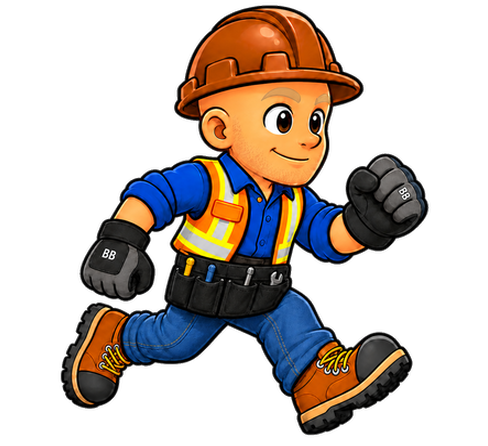
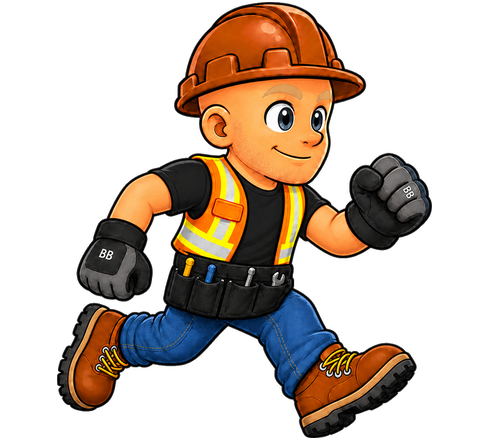
art: refine Mr BB colors and boots

Changed region(s): [[0.0922, 0.0, 0.8914, 0.991], [0.7992, 0.5247, 0.8299, 0.5538]]

diff --git a/tests/release-contract.test.js b/tests/release-contract.test.js
@@ -120,16 +120,18 @@ test('the published build retains the LittleJS MIT notice', async () => {
   assert.match(publicLicense, /Permission is hereby granted/);
 });
 
-test('the larger cartoon Mr. BB asset keeps the approved front-apron outfit and real transparency', async () => {
+test('the larger cartoon Mr. BB asset keeps the approved gray-blue-eyed black-T-shirt outfit', async () => {
   const [markup, gameSource, hero] = await Promise.all([
     readProjectFile('index.html'),
     readProjectFile('src/game.js'),
     readProjectAsset('assets/mr-bb-v2.png'),
   ]);
 
-  assert.match(markup, /assets\/mr-bb-v2\.png/);
-  assert.match(markup, /Bald cartoon Mr\. BB with light eyebrows, light stubble/);
-  assert.match(markup, /plain blue jeans, dark gloves, and a black front waist tool apron/);
+  const heroTag = markup.match(/<img\b(?=[^>]*\bsrc="\/assets\/mr-bb-v2\.png")[^>]*>/s)?.[0];
+  assert.ok(heroTag, 'the game overlay must include the approved runtime hero image');
+  assert.match(heroTag, /Bald cartoon Mr\. BB with gray-blue eyes, light eyebrows, light stubble/);
+  assert.match(heroTag, /black short-sleeve T-shirt/);
+  assert.match(heroTag, /plain blue jeans, dark gloves, plain brown work boots, and a black front waist tool apron/);
   assert.match(gameSource, /HERO_SOURCE.*assets\/mr-bb-v2\.png/);
   assert.match(gameSource, /standingSize = vec2\(0\.68, 1\.03\)/);
   assert.match(gameSource, /standingDrawSize = vec2\(1\.92, 1\.75\)/);
@@ -147,20 +149,23 @@ test('the larger cartoon Mr. BB asset keeps the approved front-apron outfit and 
   assert.ok(alphaStats.opaquePixels > 0, 'hero PNG must retain visible character pixels');
   assert.equal(
     createHash('sha256').update(hero).digest('hex'),
[1 lines of base64/hex data omitted]
-    'hero sprite must match the approved plain-jeans, dark-gloves, front-apron artwork',
[1 lines of base64/hex data omitted]
+    'hero sprite must match the approved gray-blue eyes, black T-shirt, and brown-toe boots',
   );
 });
 
-test('the launch splash and social preview keep the approved front-apron tool-scatter artwork', async () => {
+test('the launch splash and social preview keep the approved gray-blue-eyed black-T-shirt artwork', async () => {
   const [markup, launchSplash, socialCard] = await Promise.all([
     readProjectFile('index.html'),
     readProjectAsset('assets/mr-bb-splash.png'),
     readProjectAsset('public/og.png'),
   ]);
 
-  assert.match(markup, /src="\/assets\/mr-bb-splash\.png"/);
-  assert.match(markup, /black front waist tool apron/);
+  const splashTag = markup.match(/<img\b(?=[^>]*\bid="launch-splash-image")[^>]*>/s)?.[0];
+  assert.ok(splashTag, 'the launch overlay must include the approved splash image');
+  assert.match(splashTag, /src="\/assets\/mr-bb-splash\.png"/);
+  assert.match(splashTag, /Bald gray-blue-eyed Mr\. BB in a black short-sleeve T-shirt/);
+  assert.match(splashTag, /black front waist tool apron/);
   assert.deepEqual(socialCard, launchSplash, 'launch splash and social card must stay byte-identical');
   for (const artwork of [launchSplash, socialCard]) {
     assert.equal(artwork.subarray(1, 4).toString('ascii'), 'PNG');
@@ -168,8 +173,8 @@ test('the launch splash and social preview keep the approved front-apron tool-sc
     assert.equal(artwork.readUInt32BE(20), 675);
     assert.equal(
       createHash('sha256').update(artwork).digest('hex'),
[1 lines of base64/hex data omitted]
-      'launch artwork must match the approved plain-jeans, dark-gloves, front-apron scene',
[1 lines of base64/hex data omitted]
+      'launch artwork must match the approved gray-blue eyes and black T-shirt scene',
     );
   }
 });

diff --git a/index.html b/index.html
@@ -24,7 +24,7 @@
     <meta property="og:image:height" content="675" />
     <meta
       property="og:image:alt"
-      content="Bald Mr. BB in plain blue jeans, dark gloves, and a black front waist tool apron running through an HVAC construction site"
+      content="Bald gray-blue-eyed Mr. BB in a black short-sleeve T-shirt, plain blue jeans, dark gloves, and a black front waist tool apron running through an HVAC construction site"
     />
     <meta name="twitter:card" content="summary_large_image" />
     <meta name="twitter:title" content="Mr. BB — Duct Run" />
@@ -35,7 +35,7 @@
     <meta name="twitter:image" content="https://sergeisysoev.github.io/mr-bb-game/og.png" />
     <meta
       name="twitter:image:alt"
-      content="Bald Mr. BB in plain blue jeans, dark gloves, and a black front waist tool apron running through an HVAC construction site"
+      content="Bald gray-blue-eyed Mr. BB in a black short-sleeve T-shirt, plain blue jeans, dark gloves, and a black front waist tool apron running through an HVAC construction site"
     />
     <title>Mr. BB — Duct Run</title>
     <link rel="manifest" href="%BASE_URL%manifest.webmanifest" />
@@ -48,7 +48,7 @@
       <img
         id="launch-splash-image"
         src="/assets/mr-bb-splash.png"
-        alt="Bald Mr. BB in plain blue jeans, dark gloves, and a black front waist tool apron rushing through an HVAC jobsite while screws and tools scatter behind him"
+        alt="Bald gray-blue-eyed Mr. BB in a black short-sleeve T-shirt, plain blue jeans, dark gloves, and a black front waist tool apron rushing through an HVAC jobsite while screws and tools scatter behind him"
         width="1200"
         height="675"
         decoding="async"
@@ -96,7 +96,7 @@
               <p class="overlay-kicker">HVAC JOBSITE · FLOOR 01</p>
               <img
                 src="/assets/mr-bb-v2.png"
-                alt="Bald cartoon Mr. BB with light eyebrows, light stubble, plain blue jeans, dark gloves, and a black front waist tool apron"
+                alt="Bald cartoon Mr. BB with gray-blue eyes, light eyebrows, light stubble, a black short-sleeve T-shirt, plain blue jeans, dark gloves, plain brown work boots, and a black front waist tool apron"
               />
               <h2 id="overlay-title">RUN COMPLETE</h2>
               <p id="overlay-copy">Mr. BB is ready for another run.</p>

diff --git a/art/IMAGEGEN-PROMPTS.md b/art/IMAGEGEN-PROMPTS.md
@@ -10,12 +10,13 @@ Current revision modes: built-in `precise-object-edit`, built-in `background-ext
 - Generated: 2026-08-31 with OpenAI image generation through Codex
 - Revised: 2026-08-31 — bald head, light eyebrows, and subtle light stubble
 - Revised again: 2026-08-31 — plain blue denim jeans without knee pads, charcoal-gray gloves with small white `BB` marks, no side pouches, and one original black four-pocket tool apron centered across the front of the waist
-- Project file: the generated cutout received the documented connected-background alpha cleanup, was resized to 488×446, then was mechanically scaled and bottom-anchored to match the previous approved character footprint in the LittleJS texture
[1 lines of base64/hex data omitted]
+- Eye/shirt/boot revision: 2026-08-31 — cool gray-blue irises, a plain black short-sleeve crew-neck T-shirt, and brown leather boot toes with no black caps
+- Project file: the latest generated cutout received the documented connected-background alpha cleanup, was mechanically scaled to the approved 375×436 character footprint, then padded to 488×446 and bottom-anchored at pixel y=437 in the LittleJS texture
[1 lines of base64/hex data omitted]
 - Project usage: included by the project owner under this repository's MIT license
 - Structural reference only: the user-supplied `Photo 1.jpg` black waist-apron image and [Lowe's model 106668-BLKXL](https://www.lowes.com/pd/Carhartt-Men-s-Black-Canvas-Waist-Apron-X-Large-Adjustable-Strap-12-ounce-Cotton-Duck-Construction-4-Large-Pockets/5014783235); all brand marks and proprietary plaques were excluded from the original Mr. BB design
 
-The latest identity correction below supersedes the clean-shaven and dark-hair details in the original proportion prompt.
+The latest identity correction below supersedes the clean-shaven and dark-hair details in the original proportion prompt. The final eye/shirt/boot correction supersedes every older brown-eye and blue/navy-shirt detail while preserving the approved splash boots.
 
 ### Proportion redesign prompt
 
@@ -122,6 +123,37 @@ Avoid: any character redesign, old gray pants, tan gloves, side pouches, knee pa
 
 The image-generation service returned the final cutout with a baked light checkerboard in an RGB PNG despite the extraction prompt. The project sprite therefore received a deterministic, non-generative connected-light-background removal and RGBA encoding pass with Node and ffmpeg before its 488×446 resize. The character pixels were not redrawn during this cleanup.
 
+### Gray-blue eyes, black T-shirt, and brown-boots revision prompt
+
+```text
+Use case: precise-object-edit
+Asset type: transparent 2D game character sprite/cutout for the original Mr. BB HVAC platformer.
+
+Input images:
+- Image 1 is the exact edit target.
+
+Primary request: Make exactly three targeted appearance corrections to Mr. BB and leave everything else unchanged.
+
+Required edits:
+1. EYES: Change both visible irises from warm brown/amber to a clearly cool, desaturated light gray-blue. Preserve the exact eye shapes, black pupils, white sclera, catchlights, eyelids, gaze direction, and expression. The irises must read as gray-blue, not brown, hazel, green, or saturated royal blue.
+2. SHIRT: Replace the visible blue collared long-sleeve work shirt with a plain solid black short-sleeve crew-neck T-shirt worn underneath the existing orange/yellow safety vest. Remove every blue shirt area, collar, placket, and shirt buttons. The T-shirt sleeves must end above the elbows so both forearms remain naturally bare. Use black fabric with subtle charcoal highlights only for readable folds; no logo, print, pocket, or text.
+3. GAME BOOTS: Remove the black toe caps from both boots. Make the entire leather upper of each boot, including each toe and forefoot, a consistent rich chestnut-brown leather matching the rest of the boot. Keep the yellow laces. A thin dark-brown rugged outsole may remain only under the boot, but no black protective cap, black panel, or black material may wrap over either toe. The boots must read simply as brown work boots.
+
+Absolute invariants: Preserve the exact same friendly Mr. BB identity, completely bald scalp, light blond/beige eyebrows, subtle pale-blond short stubble, clean upper lip with no moustache, face, nose, ears, oversized cartoon head, compact body, right-facing running pose, anatomy, proportions, scale, exact crop and bottom anchor, brown hard hat, orange/yellow safety vest, plain blue denim jeans without knee pads or panels, charcoal-gray gloves with small white "BB" markings, black four-pocket front waist apron with tools, no side pouches, outlines, lighting, and transparent padding.
+
+Style/medium: preserve the exact polished original 2D cartoon platform-game sprite style and bold readable outline.
+
+Background: preserve genuine transparent alpha. Keep the full uncropped character and all existing padding.
+
+Text (verbatim): preserve only the existing small white "BB" on the gloves. No other text.
+
+Constraints: change only iris color, shirt garment/color/sleeve length, and boot toe color/material. No brand marks; no new objects; no logo; no watermark.
+
+Avoid: brown or amber irises, blue shirt, navy shirt, collar, shirt buttons, long sleeves, black toe caps, black toe panels, black boot uppers, altered face, altered vest, altered apron, altered jeans, side pouches, knee pads, tan gloves, dark head hair, dark eyebrows, beard, moustache, changed pose, changed proportions, cropped body, opaque background, checkerboard background, Mario/Nintendo resemblance, extra limbs.
+```
+
+The service again returned a baked checkerboard rather than alpha. A deterministic connected-background cleanup removed only the connected light neutral backdrop; the resulting character was then mechanically normalized to the approved footprint without a generative redraw.
+
 ## `assets/mr-bb.png` — retired legacy sprite
 
 Status: retained only for provenance; the runtime must use `assets/mr-bb-v2.png`.
@@ -177,8 +209,12 @@ Current revision mode: built-in `precise-object-edit`
 - Revised again: 2026-08-31 — removed the airborne mastic bucket and orange liquid; added flying screws and tools for the buttonless launch splash
 - Final title revision: 2026-08-31 — restored the clearly visible space in the exact title `MR. BB`
 - Outfit revision: 2026-08-31 — plain blue denim jeans without a knee pad, charcoal-gray gloves with small white `BB` marks, no side pouches, and one original black multi-pocket front waist apron
-- Project files: the same generated edit resized to 1200×675 for both the launch splash and social card
[1 lines of base64/hex data omitted]
+- Eye/shirt revision: 2026-08-31 — cool gray-blue irises and a black short-sleeve shirt; the approved splash boots were preserved
+- Crew-neck correction: 2026-08-31 — full-splash attempts removed most blue fabric but retained work-shirt details; a final close-up ImageGen edit removed the collar, placket, and buttons and completed the plain black short-sleeve crew-neck T-shirt
+- Project files: the final ImageGen close-up was resized to the source crop's exact 160×160 geometry and feather-blended only into the shirt region at (670, 270); the completed 1200×675 splash and social card are byte-identical
[1 lines of base64/hex data omitted]
+- Final close-up ImageGen source: `/Users/assistant/.codex/generated_images/01a058d1-07d8-70b2-afb0-1fd34fb31a16/exec-1f436d51-d215-424b-a3c1-b067caf7d2ec.png`
[1 lines of base64/hex data omitted]
 - Project usage: included by the project owner under this repository's MIT license
 - Structural reference only: the user-supplied `Photo 1.jpg` black waist-apron image and [Lowe's model 106668-BLKXL](https://www.lowes.com/pd/Carhartt-Men-s-Black-Canvas-Waist-Apron-X-Large-Adjustable-Strap-12-ounce-Cotton-Duck-Construction-4-Large-Pockets/5014783235); all brand marks and proprietary plaques were excluded from the original Mr. BB design
 
@@ -282,4 +318,126 @@ Text (verbatim): Preserve the large title exactly once as "MR. BB" with a clearl
 Constraints: Change only pants, gloves, and tool storage. Original generic construction apparel only. No Carhartt name or logo; no trademarks; no side pouches; no knee pads; no tan gloves; no new airborne objects; no extra people; no watermark.
 
 Avoid: altered face or identity, dark head hair, dark eyebrows, beard, moustache, gray knee panels, cargo pants, hip holsters, side tool bags, brand marks, metal logo plaques, changed title spacing, misspelled or duplicate title, changed scene, changed ducts, bucket, orange liquid, Mario/Nintendo resemblance, red plumber clothing, cropped title, border, signature.
+```
+
+### Gray-blue eyes and black T-shirt splash revision prompt
+
+```text
+Use case: precise-object-edit
+Asset type: existing 16:9 landscape launch splash and social card for the original web game "Mr. BB — Duct Run".
+
+Input images:
+- Image 1 is the exact artwork edit target.
+
+Primary request: Make exactly two targeted appearance corrections to the running worker and leave everything else unchanged.
+
+Required edits:
+1. EYES: Change both visible irises from warm brown/amber to a clearly cool, desaturated light gray-blue. Preserve the exact eye shapes, black pupils, white sclera, catchlights, eyelids, gaze direction, and friendly expression. The irises must read as gray-blue, not brown, hazel, green, or saturated royal blue.
+2. SHIRT: Replace the visible navy/blue collared shirt with a plain solid black short-sleeve crew-neck T-shirt worn underneath the existing orange safety vest. Remove every blue shirt area, collar, placket, and shirt buttons. The T-shirt sleeves must end above the elbows so both forearms remain naturally bare. Use black fabric with subtle charcoal highlights only for folds and lighting; no logo, print, pocket, or text.
+
+Critical boot invariant: The boots in this splash are already correct. Preserve both existing brown work boots exactly as drawn, including their shape, brown leather, sole, perspective, lighting, and running position. Do not redesign, recolor, simplify, or move the splash boots.
+
+Character invariants: Preserve Mr. BB's exact identity, completely bald scalp under the brown hard hat, light blond/beige eyebrows, subtle pale-blond short stubble, clean upper lip with no moustache, face, nose, ears, body proportions, running pose, anatomy, brown hard hat, orange safety vest, plain blue denim jeans without knee pads, charcoal-gray gloves with small white "BB" marks, black multi-pocket front waist apron with tools, no side pouches, lighting, and shadows.
+
+Scene invariants: Preserve the exact 16:9 composition, HVAC construction site, every rectangular and spiral duct, perspective, camera angle, cinematic polished cartoon style, lighting, color palette, framing, crop, motion, every flying silver screw, tape measure, screwdriver, pliers, wrench, loose work glove, and motion trail. Keep no bucket and no orange mastic/liquid/paint/splash/droplets.
+
+Text (verbatim): Preserve the large title exactly once as "MR. BB" with a clearly visible normal space after the period, and preserve "DUCT RUN" exactly once. Keep both title areas fully legible, correctly spelled, unduplicated, and in their exact current positions and styles. Preserve only the existing tiny white "BB" markings on the worn gloves as additional clothing marks. No other text.
+
+Constraints: change only iris color and the shirt garment/color/sleeve details. No new objects; no extra people; no logos; no trademarks; no watermark.
+
+Avoid: brown or amber irises, blue or navy shirt, collar, shirt buttons, long sleeves, altered boots, black toe-cap edits on the splash boots, altered face, altered vest, altered apron, altered jeans, changed title spacing, misspelled or duplicate title, changed scene or ducts, bucket, orange liquid, Mario/Nintendo resemblance, cropped title, border, signature.
+```
+
+### First crew-neck correction prompt
+
+```text
+Use case: precise-object-edit
+Asset type: existing 16:9 landscape launch splash and social card for the original web game "Mr. BB — Duct Run".
+
+Input image:
+- Image 1 is the exact artwork edit target.
+
+Primary request: Correct ONLY the construction worker's black shirt neckline and front. It is currently a black collared polo/work shirt. Convert it into a plain solid-black SHORT-SLEEVE CREW-NECK T-SHIRT.
+
+Required shirt correction:
+- Completely remove both collar points and every trace of a folded collar.
+- Completely remove the vertical button placket, seam line, opening, and all shirt buttons.
+- Replace that area with one simple continuous black T-shirt chest and a smooth round crew neckline around the base of the neck.
+- Keep both short sleeves ending above the elbows and both forearms bare.
+- Keep the fabric black, with subtle charcoal highlights only for natural folds.
+- No pocket, logo, print, zipper, V-neck, polo collar, dress-shirt collar, placket, or buttons.
+
+Absolute pixel-preservation intent: Leave everything outside the black-shirt region unchanged as closely as possible.
+
+Character invariants: Preserve the exact same Mr. BB identity, clearly cool gray-blue irises, eye shapes, pupils, catchlights, completely bald scalp beneath the brown hard hat, light blond/beige eyebrows, subtle pale-blond stubble, clean upper lip with no moustache, face, expression, nose, ears, head/body proportions, running pose, anatomy, brown hard hat, orange safety vest, plain blue jeans, charcoal gloves with small white "BB", centered black front waist apron and tools, no side pouches, skin, lighting, and shadows.
+
+Critical boot invariant: Preserve both existing brown work boots exactly as currently drawn. Do not change their brown leather, toes, soles, shape, position, perspective, color, lighting, or detail.
+
+Scene invariants: Preserve the exact 16:9 composition, HVAC construction site, every rectangular and spiral duct, background, perspective, camera angle, framing, crop, lighting, palette, every flying screw, tape measure, screwdriver, pliers, wrench, loose glove, and motion trail. Keep no bucket and no orange mastic/liquid/paint/splash/droplets.
+
+Text (verbatim): Preserve the title exactly once as "MR. BB" with a visible normal space after the period, and "DUCT RUN" exactly once. Preserve the tiny white "BB" glove markings. No other text. Do not alter typography, spelling, position, scale, or spacing.
+
+Constraints: make only the collar/placket/button-to-crew-neck-T-shirt correction; no new objects, extra people, logos, trademarks, signature, border, or watermark.
+
+Avoid: any collar, collar points, polo shirt, work-shirt collar, dress-shirt collar, button placket, front buttons, blue or navy shirt, V-neck, altered eyes, brown or amber irises, altered boots, black toe-cap redesign, altered face, altered pose, changed title, changed tools, changed ducts, bucket, orange liquid, Mario/Nintendo resemblance.
+```
+
+This pass removed the folded collar but left tiny button/placket details. The final pass below removed those residual details.
+
+### Second full-splash crew-neck and button-removal prompt
+
+```text
+Use case: precise-object-edit
+Asset type: existing 16:9 Mr. BB game splash artwork.
+
+Input image:
+- Image 1 is the exact edit target.
+
+Edit ONLY the small visible black shirt area on the worker's upper chest and neckline. The current image still contains tiny circular buttons and a vertical center placket/seam. DELETE ALL OF THEM.
+
+Required final shirt:
+- A plain solid-black short-sleeve CREW-NECK T-SHIRT.
+- One smooth, continuous, uninterrupted black fabric surface on the chest.
+- One simple round ribbed crew neckline at the base of the neck.
+- Absolutely ZERO buttons: remove every tiny black or colored button dot from the chest.
+- Absolutely ZERO vertical placket, opening, zipper, center seam, polo construction, collar, collar points, lapels, pocket, logo, or print.
+- Keep sleeves short above both elbows and forearms bare.
+- Natural charcoal highlights may describe folds, but must not resemble buttons, seams, a placket, or an opening.
+
+Change nothing else. Preserve every other image element exactly as closely as possible: cool gray-blue irises; bald scalp; light brows; pale stubble; no moustache; brown hard hat; face/expression; orange vest; blue jeans; dark BB gloves; centered black front apron; both existing brown boots; running pose; all ducts; all tools and screws; lighting; composition; crop.
+
+Text (verbatim): Keep "MR. BB" exactly once with its visible space, and "DUCT RUN" exactly once. Do not change any title letter, punctuation, spacing, typography, size, or position.
+
+Keep no bucket and no orange mastic/liquid/paint/splash/droplets. No new objects, people, logos, signature, border, or watermark.
+
+Avoid above all: shirt buttons, button dots, placket, vertical shirt opening, collar, polo shirt, work shirt, dress shirt, V-neck, navy/blue shirt, altered boots, altered eyes, changed title.
+```
+
+The full-splash edit still retained faint work-shirt details at high magnification. The final accepted close-up edit below was performed on a 160×160 crop from (670, 270), enlarged to 1024×1024 for ImageGen. Its corrected shirt region was mechanically resized back to 160×160 and feather-blended into that exact location. Pixels outside the feathered local patch came from the approved full splash.
+
+### Accepted close-up crew-neck correction prompt
+
+```text
+Use case: precise localized object removal / inpainting
+Asset type: square close-up crop from an existing Mr. BB game splash.
+
+Image 1 is the exact edit target. It is a close-up of the worker's neck, black shirt, orange safety vest, glove, and tool apron.
+
+Primary request: Convert ONLY the visible black collared/buttoned shirt details into a plain black crew-neck T-shirt. This close-up clearly shows two folded triangular black collar points beside the neck, a faint vertical center placket, and three small tan/brown buttons stacked down the chest. Remove ALL of those specific details.
+
+Required edit:
+- Erase the left folded collar point completely.
+- Erase the right folded collar point completely.
+- Erase all three tan/brown circular buttons completely.
+- Erase the full vertical center placket/opening/seam completely.
+- Reconstruct the area as one smooth uninterrupted field of plain black T-shirt fabric.
+- Add/retain a simple round crew-neck edge that curves naturally and continuously around the base of the worker's neck.
+- Keep the T-shirt opaque black with only broad subtle charcoal shading for fabric volume.
+- No small circular marks, dots, snaps, holes, buttons, rivets, fasteners, seam, placket, opening, zipper, collar, collar points, lapels, V-neck, pocket, logo, or print anywhere on the black shirt.
+
+STRICT preservation: Keep the exact crop dimensions and framing. Preserve the worker's skin/neck/chin, pale stubble, orange safety vest and reflective stripes, black sleeve areas, dark glove with white BB, front apron/tools, background, lighting, pose, and every pixel outside the shirt neckline/chest as closely as possible.
+
+No new text or objects. No blue/navy fabric. No watermark.
+
+Success criterion: the visible black garment must unmistakably be a plain short-sleeve round crew-neck T-shirt, like a basic unbuttoned undershirt, with perfectly uninterrupted black fabric down the center.
 ```

diff --git a/AGENTS.md b/AGENTS.md
@@ -9,8 +9,9 @@ Build and maintain a small, original HVAC construction platformer for the web.
 - Keep the game immediately playable on iPad, phone, and desktop.
 - Touch targets must be at least 44px and keyboard controls must remain available.
 - Keep the first level short: ten varied HVAC parts, falling construction hazards, three hard hats.
-- Keep Mr. BB bald with light eyebrows, subtle light stubble, no moustache or full beard, and a brown hard hat.
-- Keep Mr. BB in plain blue jeans with no knee pads or knee panels, dark gray/black gloves with a small white `BB`, and one black multi-pocket tool apron centered across the front of his waist; never restore side tool pouches.
+- Keep Mr. BB bald with gray-blue eyes, light eyebrows, subtle light stubble, no moustache or full beard, and a brown hard hat.
+- Keep Mr. BB in a plain black short-sleeve T-shirt, plain blue jeans with no knee pads or knee panels, dark gray/black gloves with a small white `BB`, and one black multi-pocket tool apron centered across the front of his waist; never restore a blue collared shirt or side tool pouches.
+- Keep the runtime sprite's work-boot leather entirely brown, including both toes; never restore contrasting black toe caps. Preserve the approved splash boots as drawn.
 - Do not use Mario, Nintendo, or other copyrighted game art, audio, names, or level designs.
 - Preserve LittleJS MIT attribution and `vendor/LITTLEJS-LICENSE.txt`.
 - Prefer original assets, canvas primitives, and dependency-free gameplay code.
